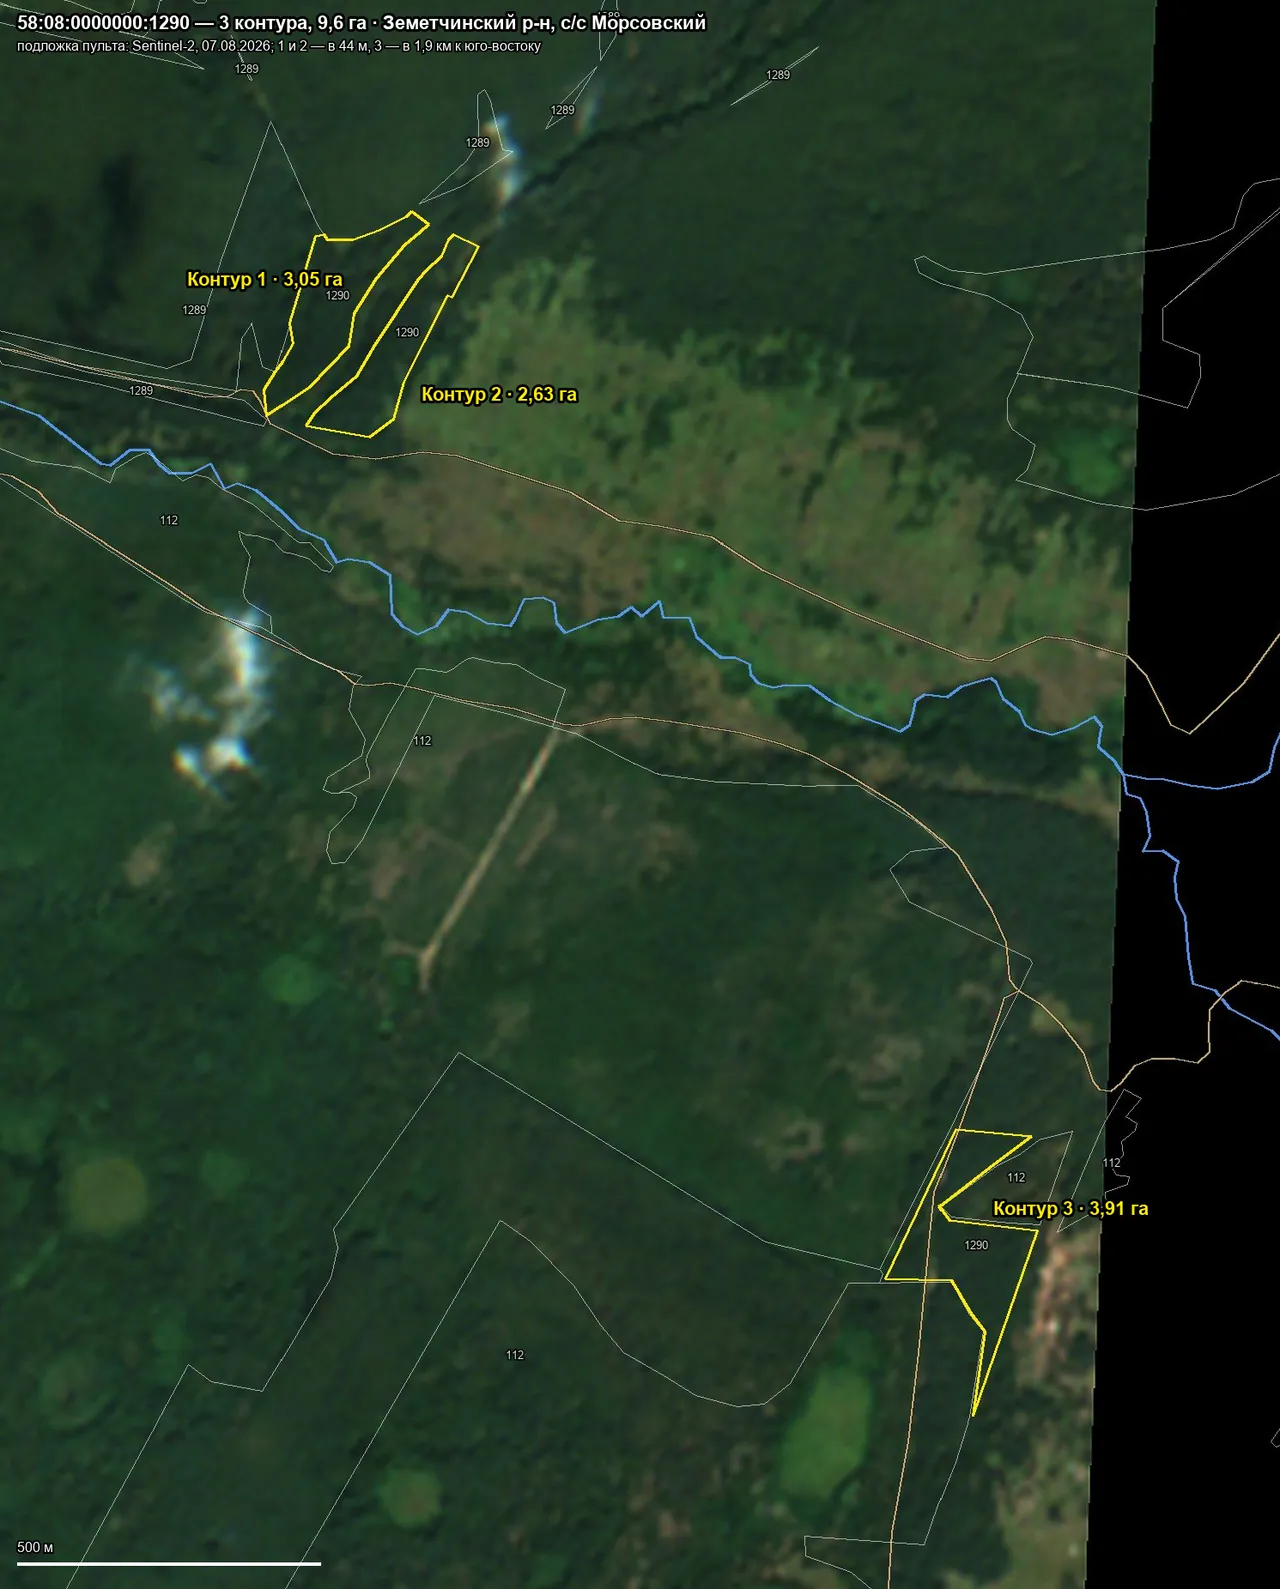
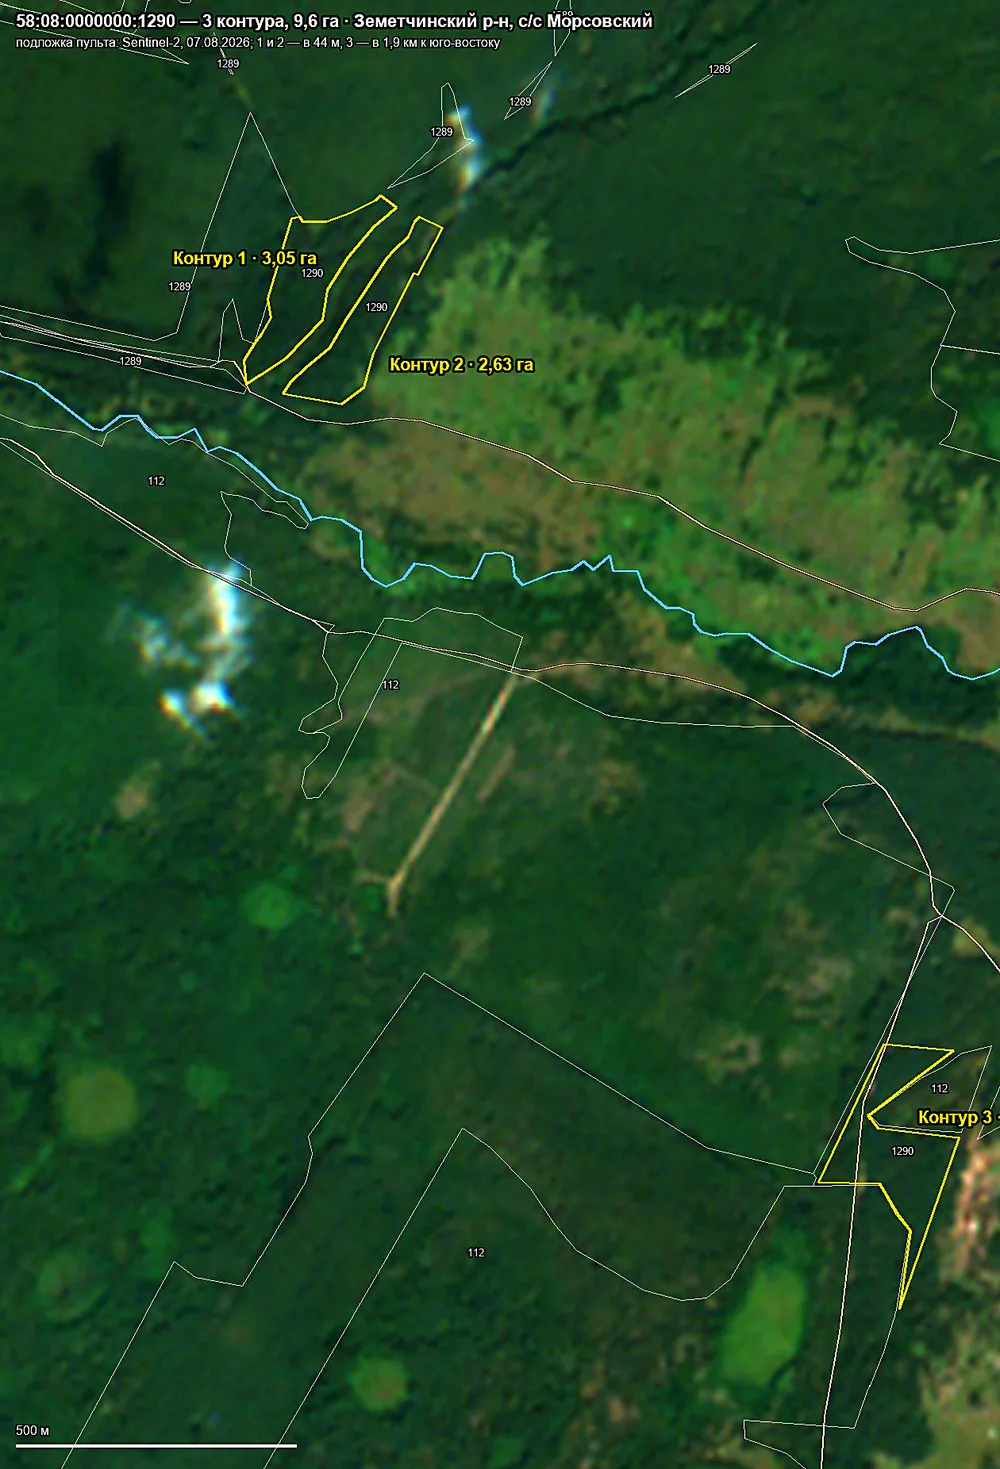
Drone case: cleaner satellite basemap (black swath cropped, contrast and colour), cache-busted images

diff --git a/index.html b/index.html
@@ -325,11 +325,11 @@
           <div class="frame-stack">
             <div class="frame">
               <div class="frame-bar"><i></i><i></i><i></i><span>DJI Smart Controller: two adjacent parcels in one loop, 65 photos, ~6 min</span></div>
-              <img src="assets/drone-mission.webp" width="1280" height="720" alt="Drone controller screen: one inspection loop around two adjacent parcels with photo legs, quality shots at 30 m and centre shots, over an offline satellite map" loading="lazy">
+              <img src="assets/drone-mission.webp?v=2" width="1280" height="720" alt="Drone controller screen: one inspection loop around two adjacent parcels with photo legs, quality shots at 30 m and centre shots, over an offline satellite map" loading="lazy">
             </div>
             <div class="frame">
               <div class="frame-bar"><i></i><i></i><i></i><span>Three-contour parcel from a registry extract on an offline Sentinel-2 basemap</span></div>
-              <img src="assets/drone-parcel.webp" width="1280" height="1600" alt="Satellite basemap with three parcel contours outlined in yellow, their areas labelled, rivers and roads traced" loading="lazy">
+              <img src="assets/drone-parcel.webp?v=2" width="1000" height="1469" alt="Satellite basemap with three parcel contours outlined in yellow, their areas labelled, rivers and roads traced" loading="lazy">
             </div>
           </div>
         </div>
